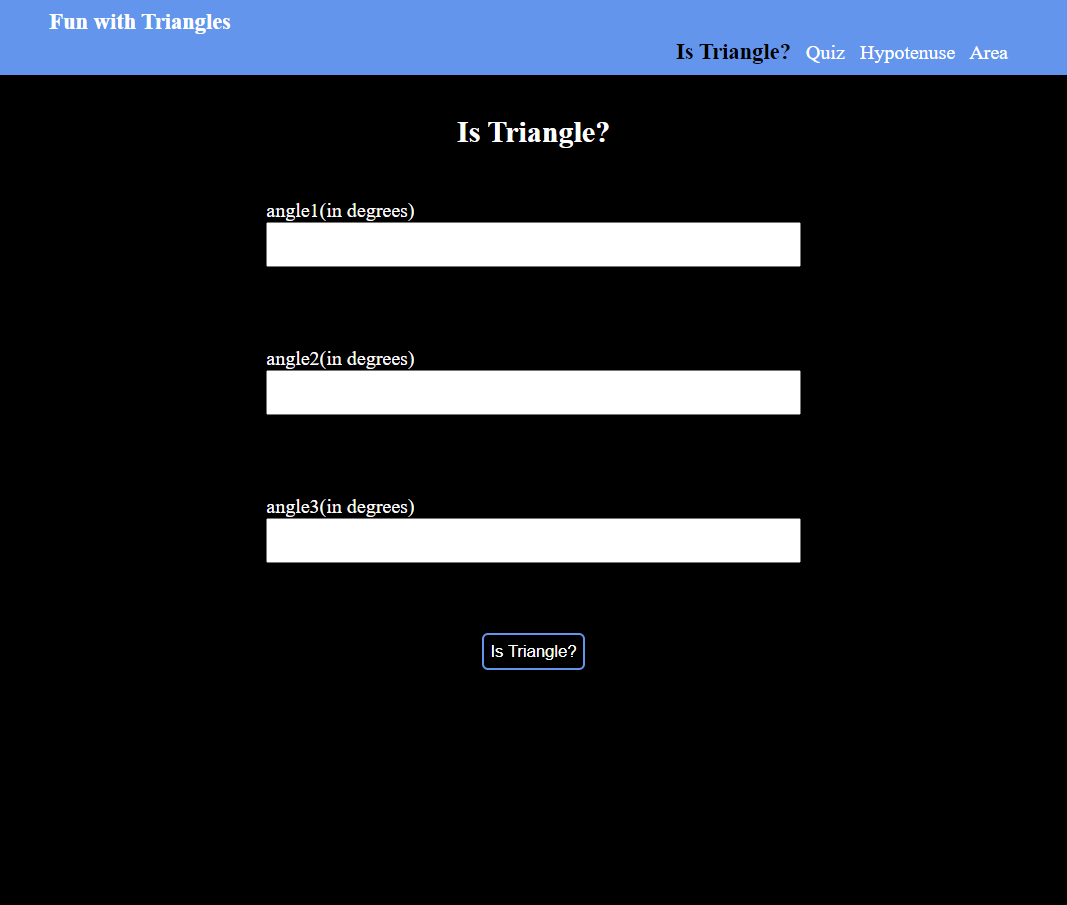
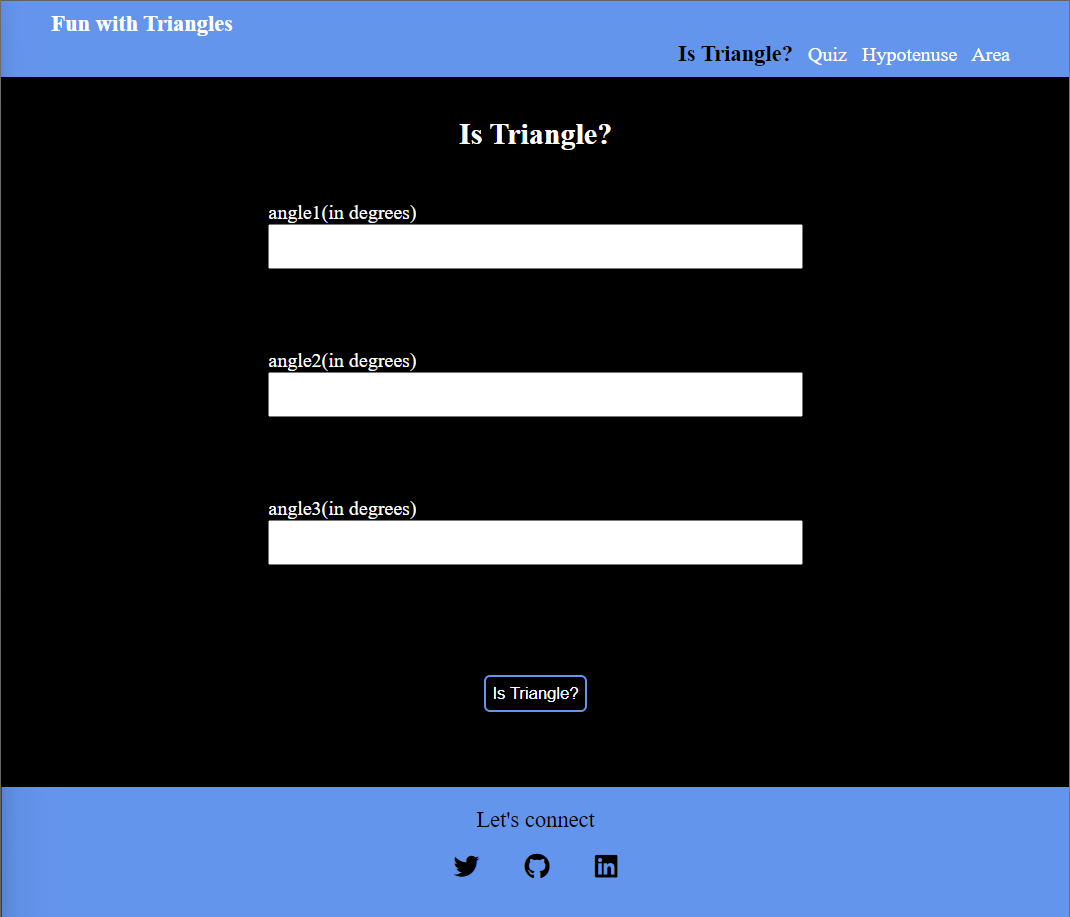
added footer and negative input validation changes

diff --git a/style.css b/style.css
@@ -67,12 +67,20 @@ input {
     justify-content: center;
     align-items: center;
 }
+/* button */
 .btn{
     background-color: transparent;
     border: 2px solid var(--primary-clr);
     color: white;
     border-radius: 0.3rem;
     padding: 0.3rem;
+}
+
+.btn:hover {
+    background-color: var(--primary-clr);
+    color: black;
+    border-color: white;
+    transform: scale(1.2);
 }
 .active {
     color: black;
@@ -108,6 +116,7 @@ input {
 .quiz-btn{
     display: block;
     margin: 1rem auto;
+
 }
 .output{
     margin-top: 1.5rem;
@@ -118,6 +127,61 @@ input {
     text-align: center;
     margin-bottom: 2rem;
 }
+
+
+
+/* footer */
+.footer,.quiz-footer{
+    overflow: hidden;
+    margin: 0 auto;
+    background-color: var(--primary-clr);
+    color: black;
+    width: 100vw;
+    text-align: center;
+    /* color: black; */
+    padding: 1rem;
+}
+.footer {
+    position: fixed;
+    bottom: 0px;
+    left: 50%;
+    transform: translate(-50%);
+
+}
+footer .quiz-footer {
+    overflow: hidden;
+    margin: 0 auto;
+    background-color: var(--primary-clr);
+    color: black;
+    width: 100vw;
+    text-align: center;
+}
+footer .link-list {
+    text-align: center;
+    margin: 1rem 0;
+    list-style-type: none;
+    margin: 1rem auto;
+}
+
+footer .link-list li {
+    display: inline;
+    padding: 1rem;
+}
+
+footer .footer-text {
+    /* font-weight: bold; */
+    font-size: large;
+}
+
+footer li a i {
+    color: black;
+    font-size: 1.3rem;
+}
+
+footer li a i:hover {
+    transform: scale(1.5);
+}
+
 @media screen and (min-width:760px) {
     .quiz-container{
         padding: 1rem;

diff --git a/quiz.html b/quiz.html
@@ -4,6 +4,13 @@
     <meta charset="UTF-8" />
     <meta http-equiv="X-UA-Compatible" content="IE=edge" />
     <meta name="viewport" content="width=device-width, initial-scale=1.0" />
+    <link
+      rel="stylesheet"
+      href="https://cdnjs.cloudflare.com/ajax/libs/font-awesome/6.2.0/css/all.min.css"
+      integrity="sha512-xh6O/CkQoPOWDdYTDqeRdPCVd1SpvCA9XXcUnZS2FmJNp1coAFzvtCN9BmamE+4aHK8yyUHUSCcJHgXloTyT2A=="
+      crossorigin="anonymous"
+      referrerpolicy="no-referrer"
+    />
     <link rel="stylesheet" href="style.css" />
 
     <title>Triangle quiz</title>
@@ -134,6 +141,28 @@
     </form>
     <button class="btn quiz-btn" type="submit">Submit Form</button>
     <div class="output quiz-output"></div>
+    <footer class="quiz-footer">
+      <div class="footer-text">Let's connect</div>
+      <ul class="link-list">
+        <li>
+          <a href="https://twitter.com/Kaushal53362050" target="_blank"
+            ><i class="fa-brands fa-twitter"></i
+          ></a>
+        </li>
+        <li>
+          <a href="https://github.com/kaushal95" target="_blank"
+            ><i class="fa-brands fa-github"></i
+          ></a>
+        </li>
+        <li>
+          <a
+            href="https://www.linkedin.com/in/kaushal-kumar-019952170"
+            target="_blank"
+            ><i class="fa-brands fa-linkedin"></i
+          ></a>
+        </li>
+      </ul>
+    </footer>
     <script src="/quiz.js" type="text/javascript"></script>
   </body>
 </html>

diff --git a/index.html b/index.html
@@ -4,6 +4,13 @@
     <meta charset="UTF-8" />
     <meta http-equiv="X-UA-Compatible" content="IE=edge" />
     <meta name="viewport" content="width=device-width, initial-scale=1.0" />
+    <link
+      rel="stylesheet"
+      href="https://cdnjs.cloudflare.com/ajax/libs/font-awesome/6.2.0/css/all.min.css"
+      integrity="sha512-xh6O/CkQoPOWDdYTDqeRdPCVd1SpvCA9XXcUnZS2FmJNp1coAFzvtCN9BmamE+4aHK8yyUHUSCcJHgXloTyT2A=="
+      crossorigin="anonymous"
+      referrerpolicy="no-referrer"
+    />
     <link rel="stylesheet" href="style.css" />
     <title>Fun with Triangles</title>
   </head>
@@ -48,6 +55,28 @@
       <button class="btn">Is Triangle?</button>
       <div class="output"></div>
     </div>
+    <footer class="footer">
+      <div class="footer-text">Let's connect</div>
+      <ul class="link-list">
+        <li>
+          <a href="https://twitter.com/Kaushal53362050" target="_blank"
+            ><i class="fa-brands fa-twitter"></i
+          ></a>
+        </li>
+        <li>
+          <a href="https://github.com/kaushal95" target="_blank"
+            ><i class="fa-brands fa-github"></i
+          ></a>
+        </li>
+        <li>
+          <a
+            href="https://www.linkedin.com/in/kaushal-kumar-019952170"
+            target="_blank"
+            ><i class="fa-brands fa-linkedin"></i
+          ></a>
+        </li>
+      </ul>
+    </footer>
     <script src="/isTriangle.js" type="text/javascript"></script>
   </body>
 </html>

diff --git a/hypotenuse.html b/hypotenuse.html
@@ -4,6 +4,13 @@
     <meta charset="UTF-8" />
     <meta http-equiv="X-UA-Compatible" content="IE=edge" />
     <meta name="viewport" content="width=device-width, initial-scale=1.0" />
+    <link
+      rel="stylesheet"
+      href="https://cdnjs.cloudflare.com/ajax/libs/font-awesome/6.2.0/css/all.min.css"
+      integrity="sha512-xh6O/CkQoPOWDdYTDqeRdPCVd1SpvCA9XXcUnZS2FmJNp1coAFzvtCN9BmamE+4aHK8yyUHUSCcJHgXloTyT2A=="
+      crossorigin="anonymous"
+      referrerpolicy="no-referrer"
+    />
     <link rel="stylesheet" href="style.css" />
 
     <title>Triangle Hypotenuse</title>
@@ -45,6 +52,28 @@
       <button class="btn">Check Hypotenuse</button>
       <div class="output"></div>
     </div>
+    <footer class="footer">
+      <div class="footer-text">Let's connect</div>
+      <ul class="link-list">
+        <li>
+          <a href="https://twitter.com/Kaushal53362050" target="_blank"
+            ><i class="fa-brands fa-twitter"></i
+          ></a>
+        </li>
+        <li>
+          <a href="https://github.com/kaushal95" target="_blank"
+            ><i class="fa-brands fa-github"></i
+          ></a>
+        </li>
+        <li>
+          <a
+            href="https://www.linkedin.com/in/kaushal-kumar-019952170"
+            target="_blank"
+            ><i class="fa-brands fa-linkedin"></i
+          ></a>
+        </li>
+      </ul>
+    </footer>
     <script src="/hypotenuse.js" type="text/javascript"></script>
   </body>
 </html>

diff --git a/area.html b/area.html
@@ -4,6 +4,13 @@
     <meta charset="UTF-8" />
     <meta http-equiv="X-UA-Compatible" content="IE=edge" />
     <meta name="viewport" content="width=device-width, initial-scale=1.0" />
+    <link
+      rel="stylesheet"
+      href="https://cdnjs.cloudflare.com/ajax/libs/font-awesome/6.2.0/css/all.min.css"
+      integrity="sha512-xh6O/CkQoPOWDdYTDqeRdPCVd1SpvCA9XXcUnZS2FmJNp1coAFzvtCN9BmamE+4aHK8yyUHUSCcJHgXloTyT2A=="
+      crossorigin="anonymous"
+      referrerpolicy="no-referrer"
+    />
     <link rel="stylesheet" href="style.css" />
 
     <title>Triangle Area</title>
@@ -44,7 +51,28 @@
       <button class="btn">Check Area</button>
       <div class="output"></div>
     </div>
-
+    <footer class="footer">
+      <div class="footer-text">Let's connect</div>
+      <ul class="link-list">
+        <li>
+          <a href="https://twitter.com/Kaushal53362050" target="_blank"
+            ><i class="fa-brands fa-twitter"></i
+          ></a>
+        </li>
+        <li>
+          <a href="https://github.com/kaushal95" target="_blank"
+            ><i class="fa-brands fa-github"></i
+          ></a>
+        </li>
+        <li>
+          <a
+            href="https://www.linkedin.com/in/kaushal-kumar-019952170"
+            target="_blank"
+            ><i class="fa-brands fa-linkedin"></i
+          ></a>
+        </li>
+      </ul>
+    </footer>
     <script src="/Area.js" type="text/javascript"></script>
   </body>
 </html>

diff --git a/isTriangle.js b/isTriangle.js
@@ -14,7 +14,7 @@ btnElement.addEventListener("click", () => {
   const angle2 = Number(inputElements[1].value);
   const angle3 = Number(inputElements[2].value);
   hideOutput();
-  if (angle1 && angle2 && angle3) {
+  if (angle1 && angle2 && angle3 && angle1 > 0 && angle2 > 0 && angle3 > 0) {
     isTriangle(angle1, angle2, angle3)
       ? showOutput(`Its a Triangle 🔺✅`)
       : showOutput(`It's not a Triangle ❌`);

diff --git a/hypotenuse.js b/hypotenuse.js
@@ -7,7 +7,7 @@ btnElement.addEventListener("click", () => {
   const side1 = parseFloat(inputElements[0].value);
   const side2 = parseFloat(inputElements[1].value);
 
-  if (side1 && side2) {
+  if (side1 && side2 && side1 > 0 && side2 > 0) {
     const hypo = Math.sqrt(side1 ** 2 + side2 ** 2);
     showOutput(`Hypotenuse is ${hypo.toFixed(2)}`);
   } else {

diff --git a/Area.js b/Area.js
@@ -10,7 +10,7 @@ btnElement.addEventListener("click", () => {
   const base = parseFloat(baseElement.value);
   const height = parseFloat(heightElement.value);
 
-  if (base && height) {
+  if (base && height && (base > 0) & (height > 0)) {
     const area = (1 / 2) * (base * height);
     showOutput(`Area of the triangle is ${area}`);
   } else {
